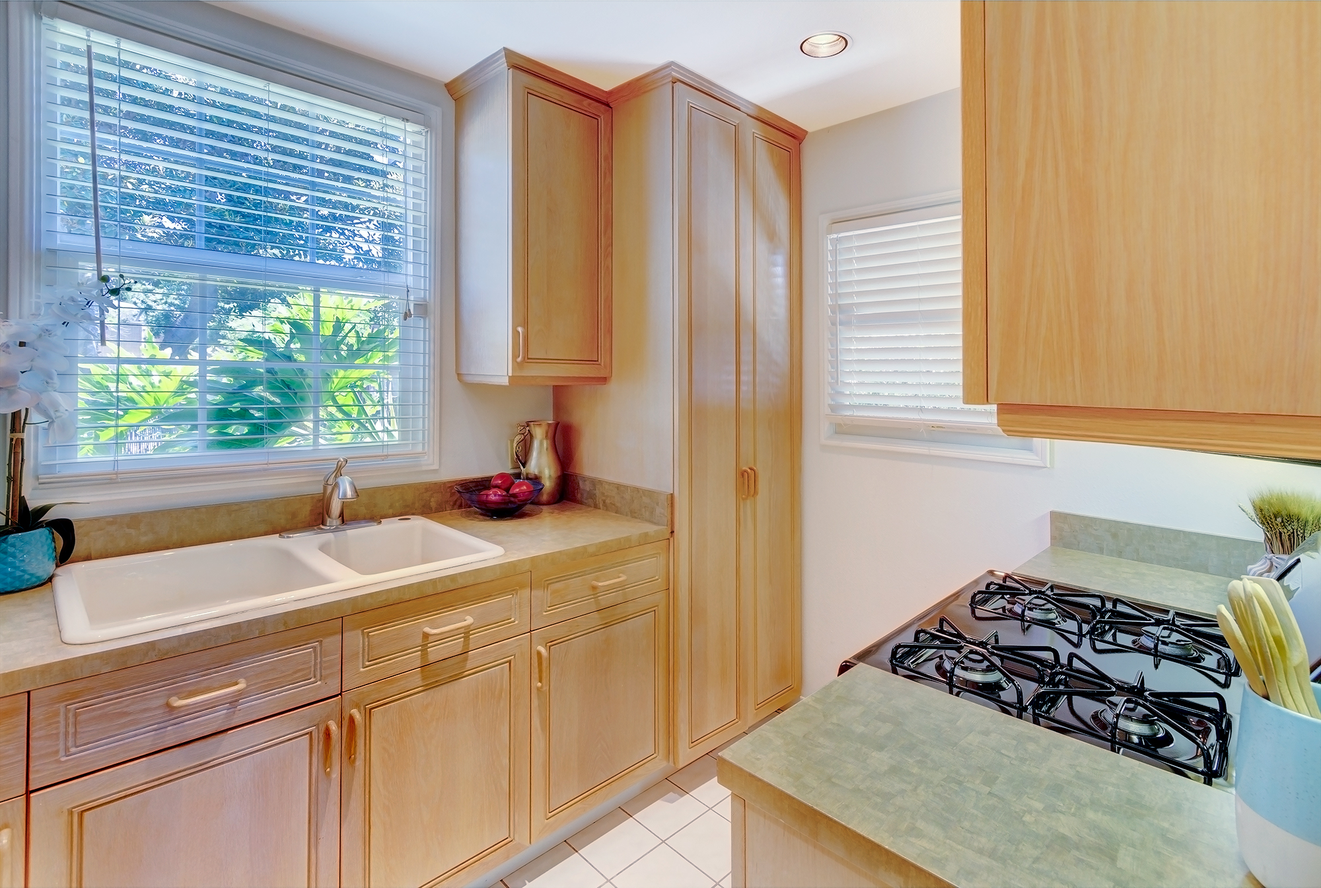
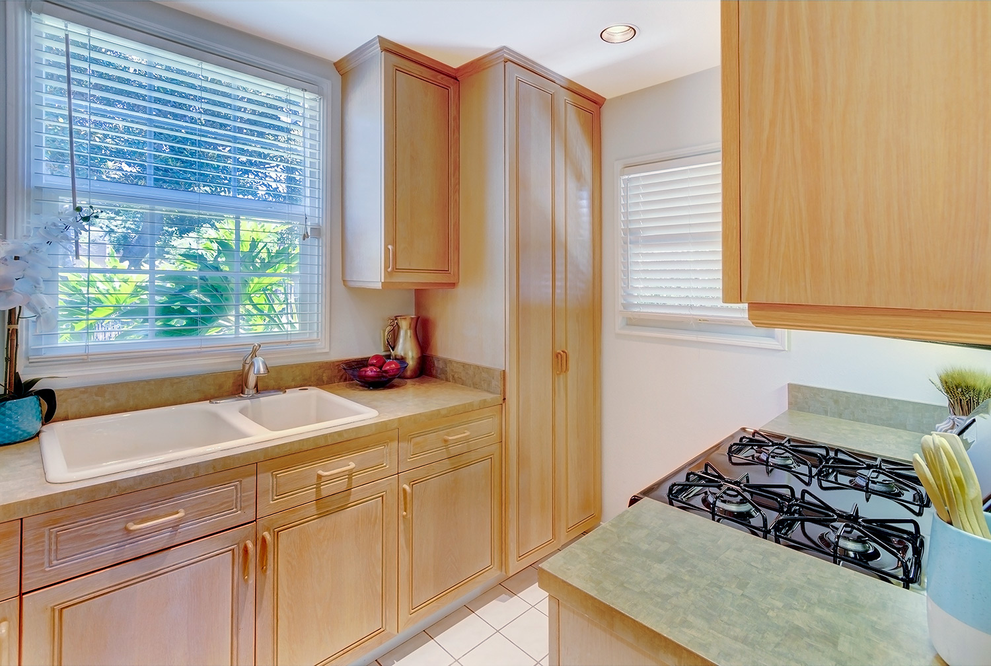
resized all photos

diff --git a/index.html b/index.html
@@ -70,7 +70,7 @@
             <div class="swiper-slide">
               <div class="slide-inner" data-swiper-parallax="45%">
                 <div class="overlay"></div>
-                <div class="slide-inner--image homepage-1" style="background-image: url('assets/images/home-slider/6-lg.jpg')"></div>
+                <div class="slide-inner--image homepage-1" style="background-image: url('assets/images/home-slider/1-lg.jpg')"></div>
                 <div class="slide-inner--info">
                   <h1>Walker<br>Photography</h1>
                 </div>
@@ -102,7 +102,7 @@
             <div class="swiper-slide">
               <div class="slide-inner" data-swiper-parallax="45%">
                 <div class="overlay"></div>
-                <div class="slide-inner--image" style="background-image: url('assets/images/home-slider/1-lg.jpg')">
+                <div class="slide-inner--image" style="background-image: url('assets/images/home-slider/4-lg.jpg')">
                 </div>
                 <div class="slide-inner--info">
                   <!-- <h2>producer</h2> -->

diff --git a/gallery.html b/gallery.html
@@ -70,8 +70,8 @@
         <div class="ms-section__block">
           <div id="gallery">
           	<img alt="image 1"
-            src="assets/images/gallery/20.jpg"
-            data-image="assets/images/gallery/20.jpg"
+            src="assets/images/gallery/1.jpg"
+            data-image="assets/images/gallery/1.jpg"
             data-description="image placeholder">
 <!--             <img alt="image 2"
             src="assets/images/gallery/1.jpg"

diff --git a/assets/css/style.css b/assets/css/style.css
@@ -620,7 +620,7 @@ p {
 }
 .swiper-slide-duplicate-active .overlay,
 .swiper-slide-active .overlay {
-    opacity: .4;
+    opacity: 0;
 }
 .slide-inner {
     position: absolute;
